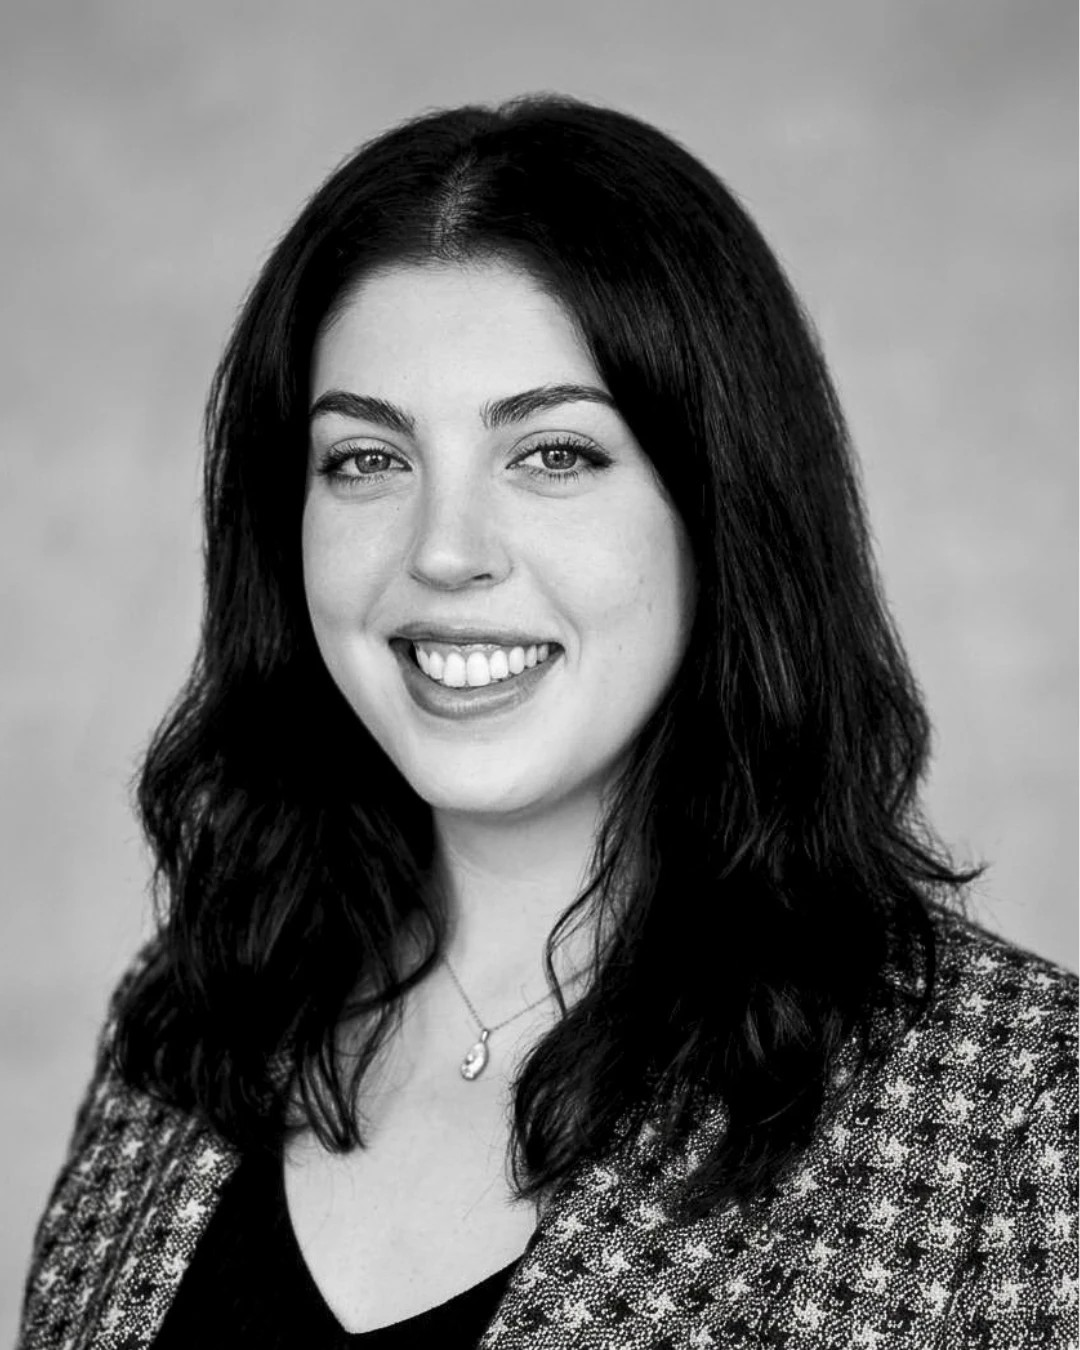
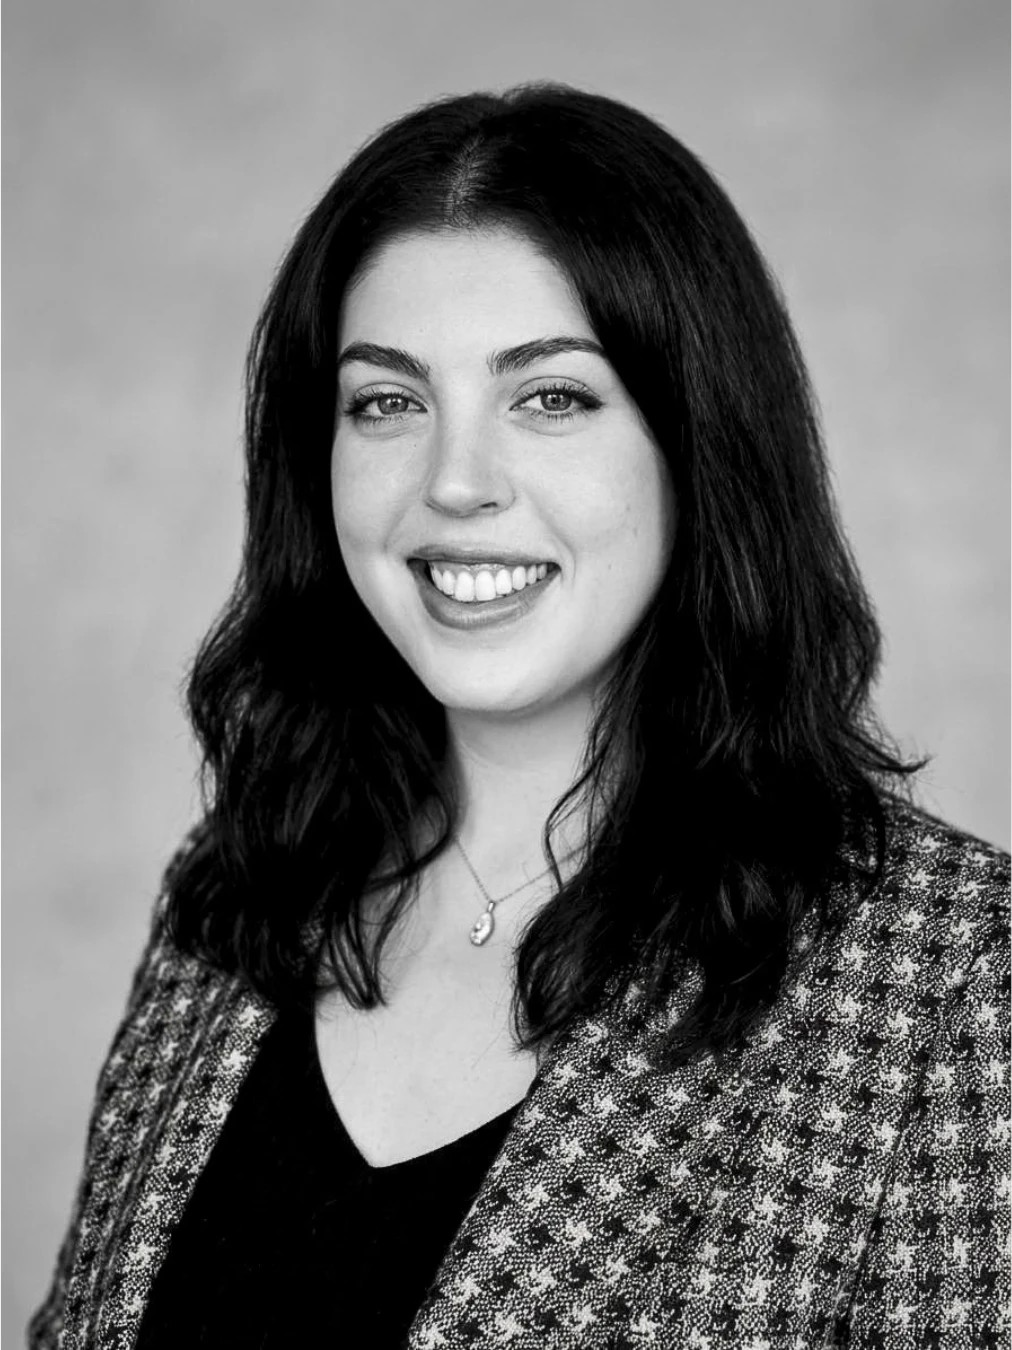
Built site for gh-pages

diff --git a/index.html b/index.html
@@ -538,7 +538,7 @@ ul.task-list li input[type="checkbox"] {
     <h1 class="op-display">I lead data teams for <em>mission‑driven</em> organisations.</h1>
     <p class="op-lede">Building data and product at Hockeystick, a political data start-up. Previously with the Democratic National Committee for the 2024 presidential election.</p>
   </div>
-  <div class="op-photo op-headshot"><img src="./assets/headshot-bw.webp" alt="Portrait of Olivia Jackson Lambert" width="800" height="1000" fetchpriority="high"></div>
+  <div class="op-photo op-headshot"><img src="./assets/headshot-bw.webp" alt="Portrait of Olivia Jackson Lambert" width="900" height="900" fetchpriority="high"></div>
 </section>
 
 <section id="work" class="op-section">

diff --git a/styles.css b/styles.css
@@ -436,7 +436,7 @@ body {
 /* the About photo keeps its own proportions (1815 x 2542), uncropped */
 .op-about-photo { aspect-ratio: 1815 / 2542; min-height: 0; align-self: start; }
 .op-headshot { aspect-ratio: 1 / 1; min-height: 0; align-self: start; }
-.op-headshot img { object-position: 50% 30%; }
+.op-headshot img { object-position: 50% 50%; }
 
 /* section heads: more air under the rule */
 .op-section { scroll-margin-top: 88px; display: flex; flex-direction: column; gap: clamp(36px, 4vw, 56px); }
